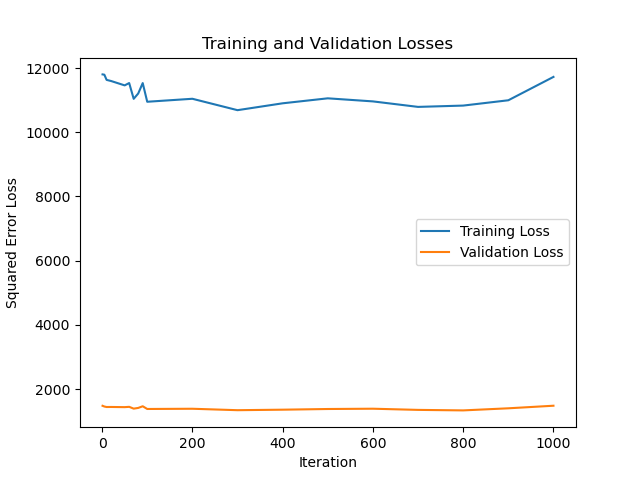
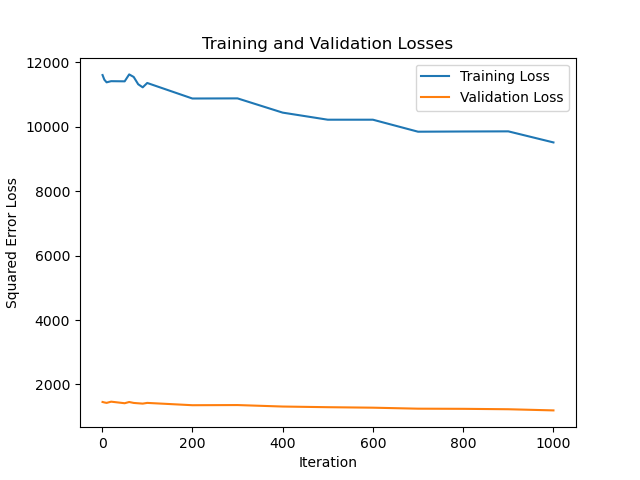
Matrix Factorization

diff --git a/Project.tex b/Project.tex
@@ -17,6 +17,7 @@ Validation Accuracy: 0.6579170194750211 with k = 2\\
 Validation Accuracy: 0.659046006209427 with k = 5\\
 Validation Accuracy: 0.6586226361840248 with k = 10\\
 Validation Accuracy: 0.6539655659046006 with k = 20\\
+So k = 5 is chosen as the best k,with validation accuracy 0.659046006209427.\\
 Best k: 5 with test accuracy: 0.6635619531470506\\
 
 \subsubsection*{(b)}
@@ -28,14 +29,8 @@ of matrix reconstruction.
 
 
 \subsubsection*{(c & d)}
-After implementing the ALS with SGD, I ran the algorithm with k = 1, 2, 5, 10, 20 and learning rate = 0.01, number of iterations = 10.\\
-The best k was 20 with an accuracy of 0.7070279424216765.\\
-Validation Accuracy: 0.70575783234547 with k = 1\\
-Validation Accuracy: 0.7054755856618685 with k = 20\\
-Validation Accuracy: 0.7046288456110641 with k = 50\\
-Validation Accuracy: 0.7067456957380751 with k = 100\\
-Validation Accuracy: 0.7061812023708721 with k = 200\\
-Best k: 100 with Test Accuracy: 0.7067456957380751\\
+After implementing the ALS with SGD, I ran the algorithm with k = 1, 2, 5, 10, 20,lr = 0.01, 0.1, 0.5, 1, iterations from 1 to 1000 with step size 20.\\
+Finally, I found the best k = 1,lr = 0.5, iterations =361 with validation accuracy0.44919559695173583, test accuracy 0.46316680779000846.\\
 \subsubsection*{(e)}
 %添加图片
 \begin{figure}[h]
